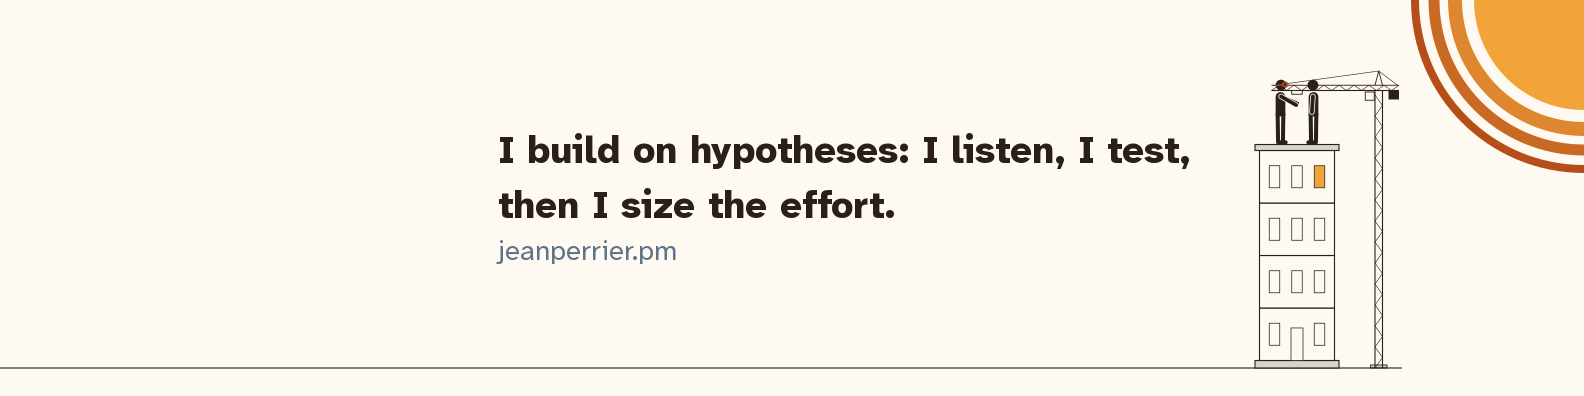
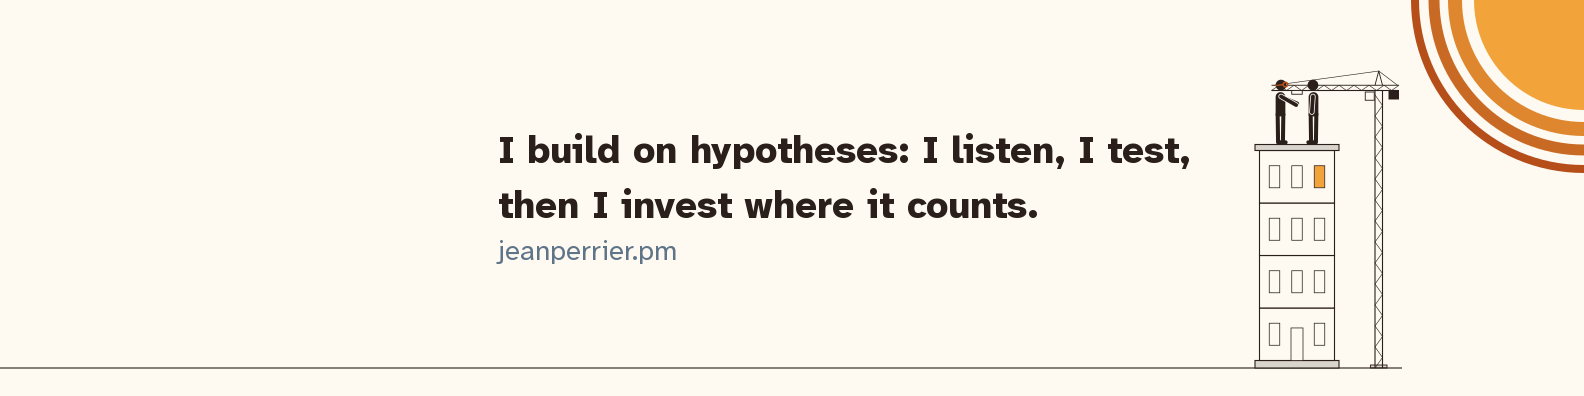
Phrase signature « j'investis la ou ca compte », date sous le titre des projets, releve des lourdeurs

Changed region(s): [[0.3712, 0.4848, 0.6496, 0.5758]]

diff --git a/src/content.config.ts b/src/content.config.ts
@@ -18,6 +18,8 @@ const projets = defineCollection({
   schema: z
     .object({
       titre: phrase,
+      /** Le mois du projet, AAAA-MM, affiché sous le titre (registre/0045). */
+      date: z.string().regex(/^\d{4}-(0[1-9]|1[0-2])$/, 'date attendue au format AAAA-MM'),
       /** Le fait clé, affiché en grand sous le titre. */
       fait: phrase,
       /** La synthèse recruteur : trois phrases. */

diff --git a/redaction/releve-lourdeurs.md b/redaction/releve-lourdeurs.md
@@ -1,0 +1,99 @@
+# Relevé des lourdeurs (registre/0044)
+
+Lecture seule, texte relevé sur le site construit (`.dist-releve`, supprimé
+depuis). Rien n'est appliqué : chaque ligne attend le go de Jean.
+
+## Les trois changements qui comptent le plus
+
+1. Les synthèses répètent le fait affiché en grand juste au-dessus (UserVoice n°3, Audit contenu n°10) : la phrase « résultat » doit dire autre chose.
+2. La synthèse « action » de UserVoice fait 38 mots et empile deux relatives, alors que c'est la phrase la plus lue du site (n°2) : trois phrases courtes.
+3. Audit contenu dit deux fois la grille (corps puis « Pour aller plus loin ») et quatre fois la relecture dans « Corriger sans casser » (n°11, n°12) : le corps résume, l'annexe détaille.
+
+## « porte sur le contenu » : 6 occurrences
+
+Dans les sources du site : `src/contenu/projets.ts:31` (accueil),
+`src/contenu/projets/fr/uservoice.md:3` (fait en tête), `:7` (synthèse),
+`:40` (corps), `src/contenu/projets/fr/audit-contenu.md:35` (corps),
+`src/pages/projets/uservoice.astro:9` (description, émise deux fois dans le
+HTML : `description` et `og:description`). Le recruteur en voit 5 dans les
+pages, plus l'aperçu de partage. Hors site, `redaction/` en garde 4
+(`uservoice.fr.md:3`, `:4`, `:25`, `audit-contenu.fr.md:9`). L'anglais
+garde « is about » (registre/0044).
+
+## FR
+
+### Accueil
+
+| # | Extrait | Ce qui pèse | Réécriture proposée | Fichier:ligne |
+|---|---|---|---|---|
+| 1 | « 1 retour sur 3 porte sur le contenu. » | Verbe mou (relevé de Jean) | « 1 retour sur 3 concerne le contenu. » | `src/contenu/projets.ts:31` |
+
+### UserVoice
+
+| # | Extrait | Ce qui pèse | Réécriture proposée | Fichier:ligne |
+|---|---|---|---|---|
+| 2 | « Je les ai réunis dans une seule table, où l'IA classe […] et laisse les cas douteux à une validation humaine, pour un bilan qui se lit en cinq minutes chaque lundi. » | 38 mots, deux relatives empilées, en tête de page | « Je les ai réunis dans une seule table. L'IA classe chaque retour avec un score de confiance et laisse les cas douteux à un humain. Le bilan se lit en cinq minutes, chaque lundi. » | `src/contenu/projets/fr/uservoice.md:6` |
+| 3 | « On pensait surtout à des bugs ; la donnée a montré qu'un retour sur trois porte sur le contenu, et l'effort s'est déplacé vers sa qualité. » | Redit le fait affiché trois lignes plus haut ; 27 mots | « On pensait surtout à des bugs. La donnée a désigné le contenu, et l'effort s'est déplacé vers sa qualité. » (à défaut : « concerne le contenu ») | `src/contenu/projets/fr/uservoice.md:7` |
+| 4 | « 1 retour sur 3 porte sur le contenu. » (fait en tête et description de la page) | Verbe mou | « 1 retour sur 3 concerne le contenu. » | `src/contenu/projets/fr/uservoice.md:3`, `src/pages/projets/uservoice.astro:9` |
+| 5 | « Un retour sur trois laissé dans le formulaire présent sur toutes les pages porte sur le contenu (de mars à septembre 2026). » | Sujet séparé du verbe par deux compléments, date en parenthèse finale | « De mars à septembre 2026, un retour sur trois laissé dans le formulaire du site concerne le contenu. » | `src/contenu/projets/fr/uservoice.md:40` |
+| 6 | « Une plateforme EdTech reçoit des milliers de retours d'apprenants par an. Ils arrivent par quatre sources : » | Redit mot pour mot la synthèse du haut | « Les retours arrivent par quatre sources : » (la suite inchangée) | `src/contenu/projets/fr/uservoice.md:24` |
+| 7 | « Je les ai fait converger vers une seule table, où chaque retour garde ses dimensions figées au moment où il est donné. Des mois plus tard, on le relit […] » | Verbe mou, terme technique (« dimensions figées »), deux « où » | « Je les ai réunis dans une seule table. Chaque retour y garde le contexte du jour où il a été donné, et se relit ainsi des mois plus tard. » | `src/contenu/projets/fr/uservoice.md:34` |
+| 8 | « L'enquête NPS pointe dans la même direction par un autre chemin. Sur deux mois […] touche à la qualité du contenu (explications, qualité des exercices, traductions), et la moitié […] » | Tournure longue pour « confirme », parenthèse, 35 mots | « L'enquête NPS le confirme. Sur deux mois de l'été 2026, près d'un commentaire sur cinq touche aux explications, aux exercices ou aux traductions. La moitié sont des critiques ou des demandes. » | `src/contenu/projets/fr/uservoice.md:42` |
+| 9 | « Chaque validation enrichit les exemples donnés à l'IA pour les passes suivantes, et des règles mécaniques prennent le relais sur les cas devenus évidents, comme […] » | 31 mots, précision inutile (« pour les passes suivantes ») | « Chaque validation enrichit les exemples donnés à l'IA. Des règles mécaniques prennent le relais sur les cas évidents, comme les réponses vides ou les doublons. » | `src/contenu/projets/fr/uservoice.md:50` |
+
+### Audit contenu
+
+| # | Extrait | Ce qui pèse | Réécriture proposée | Fichier:ligne |
+|---|---|---|---|---|
+| 10 | « Sur ce premier parcours, 1 question sur 20 empêchait l'apprenant de répondre, et toutes ont été corrigées après relecture. » | Redit le fait affiché juste au-dessus | « Les corrections, relues avant d'être appliquées, sont en production depuis la semaine du 28 septembre 2026. » | `src/contenu/projets/fr/audit-contenu.md:7` |
+| 11 | « La grille compte six critères. Deux portent sur la réponse. […] Ils vérifient aussi que ses éléments ne se contredisent pas. » | Sept phrases hachées, que « Pour aller plus loin » redit en entier | « La grille compte six critères. Deux portent sur la réponse : la réponse attendue est la bonne, et aucune autre ne se défend aussi bien. Un troisième vérifie que la question contient une explication, et qu'elle n'est pas circulaire. Les trois derniers portent sur la fidélité à la source, la langue et la cohérence. » | `src/contenu/projets/fr/audit-contenu.md:43-47` |
+| 12 | « Les corrections retenues sortent en lots, prêts à relire, pour la préproduction. […] La décision reste donc humaine. […] Aucune correction ne part en ligne sans avoir été lue. » | La relecture dite quatre fois en six phrases | « L'outil n'écrit jamais directement en base. Il produit des lots de corrections, et une personne relit chacun avant la préproduction. Si un agent se trompe de réponse, le pire est un lot rejeté à la relecture. » | `src/contenu/projets/fr/audit-contenu.md:63-65` |
+| 13 | « Le premier projet de ce portfolio, UserVoice, a rassemblé ce que […] disent d'elle. Dans le formulaire du site, 1 retour sur 3 porte sur le contenu. C'est donc là que leur satisfaction se joue d'abord. » | Le fait vient en deuxième ; la dernière phrase redit la synthèse ; verbe mou | « Dans le formulaire du site, 1 retour sur 3 concerne le contenu : c'est le constat du premier projet, UserVoice. » | `src/contenu/projets/fr/audit-contenu.md:35` |
+| 14 | « Nous avons porté l'effort sur le contenu lui-même, question par question. […] La learning designer a validé la grille. Elle a aussi défini les règles d'écriture des contenus (sauts de ligne, règles éditoriales) et […] » | Ouverture que le titre dit déjà, cinq phrases courtes de même rythme, parenthèse | « J'ai mené ce chantier avec une learning designer. J'ai conçu la grille d'audit et l'outillage qui l'applique ; elle a validé la grille, défini les règles d'écriture des contenus et fait la recette des échantillons. » | `src/contenu/projets/fr/audit-contenu.md:37` |
+| 15 | « Ce sont des sous-agents de Claude Code, sur abonnement, sans appel à une API payante. […] L'un d'eux vérifie par exemple que l'explication parle du même audio que la question. Un bilan donne enfin […] » | Six phrases ; l'exemple de l'audio est redit dans « Pour aller plus loin » | « Des agents IA appliquent la grille, question par question : des sous-agents de Claude Code, sur abonnement, sans API payante. Le modèle ne juge pas seul. Des contrôles automatiques, qui ne dépendent d'aucun modèle, passent sur tout le corpus. Un bilan donne l'état de chaque question et ce qui lui est reproché. » | `src/contenu/projets/fr/audit-contenu.md:51` |
+| 16 | « De ce projet, j'ai tiré 25 règles pour mener un projet avec l'IA. Elles servent à garder la main […] Je les ai mesurées sur le projet lui-même […] Elles changent la façon de travailler. » | « projet » trois fois ; phrase générale sans fait | « Ce projet m'a laissé 25 règles pour garder la main sur ce qu'un agent produit. Je les ai mesurées en tokens sur quatre semaines et en points de décision tracés dans un registre. » ; supprimer « Elles changent la façon de travailler. » | `src/contenu/projets/fr/audit-contenu.md:71-73` |
+| 17 | « Certaines règles tiennent en une ligne et ont coûté cher avant d'être écrites. Ouvrir le suivi de version dès le premier fichier en fait partie. » | « en fait partie » : le fait arrive en troisième phrase | « Certaines règles ont coûté cher avant d'être écrites. Sans suivi de version dès le premier fichier, deux semaines de travail sont restées hors historique. » | `src/contenu/projets/fr/audit-contenu.md:77` |
+
+### À propos
+
+| # | Extrait | Ce qui pèse | Réécriture proposée | Fichier:ligne |
+|---|---|---|---|---|
+| 18 | « Je suis Head of Product chez […], une scale-up SaaS B2B […] en ligne, depuis 2024. J'y étais auparavant […] » | La date, que le recruteur cherche, est rejetée après l'apposition | « Depuis 2024, je suis Head of Product chez […], une scale-up SaaS B2B d'apprentissage des langues en ligne. J'y ai été Product Manager et Product Owner Data de 2022 à 2024. » (nom de l'employeur inchangé) | `src/pages/a-propos.astro:18-19` |
+| 19 | « J'y mène une équipe […], de la discovery à la mise en production, et je pilote l'équipe qui transforme […] » | 30 mots, deux rôles dans une phrase | « J'y mène une équipe de Product Managers et de Product Designers, de la discovery à la mise en production. Je pilote aussi l'équipe qui transforme les retours des utilisateurs en corrections priorisées. » | `src/pages/a-propos.astro:22-23` |
+| 20 | « L'IA fait partie de mes outils quand elle apporte quelque chose de concret : » | Tournure longue, « quelque chose de concret » vague | « J'utilise l'IA quand elle sert un besoin précis : classer des retours, auditer un contenu, prototyper une fonctionnalité. » | `src/pages/a-propos.astro:30-31` |
+
+## EN
+
+L'accueil anglais ne change pas (« is about » reste).
+
+### UserVoice
+
+| # | Extrait | Ce qui pèse | Réécriture proposée | Fichier:ligne |
+|---|---|---|---|---|
+| 21 | « I brought them together in a single table, where AI classifies […], for a summary that takes five minutes to read every Monday. » | Voir n°2 | « I brought them together in a single table. AI classifies each piece of feedback with a confidence score and leaves the doubtful cases to a person. The summary takes five minutes to read, every Monday. » | `src/contenu/projets/en/uservoice.md:6` |
+| 22 | « We thought it was mostly bugs; the data showed that one in three pieces of feedback is about the content, and […] » | Voir n°3 | « We thought it was mostly bugs. The data pointed to the content, and the effort moved to its quality. » | `src/contenu/projets/en/uservoice.md:7` |
+| 23 | « One in three pieces of feedback left in the form available on every page is about the content (March to September 2026). » | Voir n°5 | « From March to September 2026, one in three pieces of feedback left in the site's form is about the content. » | `src/contenu/projets/en/uservoice.md:40` |
+| 24 | « An EdTech platform receives thousands of pieces of learner feedback a year. They come from four sources: » | Voir n°6 | « Feedback comes from four sources: » (la suite inchangée) | `src/contenu/projets/en/uservoice.md:24` |
+| 25 | « […] where each piece of feedback keeps its dimensions frozen as they were when it was submitted. Months later, it is read […] » | Voir n°7 | « I brought them into a single table. Each piece of feedback keeps the context of the day it was submitted, so it still reads that way months later. » | `src/contenu/projets/en/uservoice.md:34` |
+
+### Content audit
+
+| # | Extrait | Ce qui pèse | Réécriture proposée | Fichier:ligne |
+|---|---|---|---|---|
+| 26 | « In that first course, 1 question in 20 stopped learners from answering, and all of them were fixed after review. » | Voir n°10 | « The fixes, reviewed before being applied, have been in production since the week of September 28, 2026. » | `src/contenu/projets/en/content-audit.md:7` |
+| 27 | « The grid has six criteria. Two concern the answer. […] They also check that its parts do not contradict each other. » | Voir n°11 | « The grid has six criteria. Two concern the answer: the expected answer is the right one, and no other answer is as defensible. A third checks that the question includes an explanation, and that it is not circular. The last three cover faithfulness to the source, language and internal consistency. » | `src/contenu/projets/en/content-audit.md:43-47` |
+| 28 | « The fixes we keep come out in batches […] So the decision stays with a person. […] No fix goes live without being read. » | Voir n°12 | « The tool never writes directly to the database. It produces batches of fixes, and a person reviews each one before staging. If an agent gets an answer wrong, the worst case is a batch rejected at review. » | `src/contenu/projets/en/content-audit.md:63-65` |
+| 29 | « The first project in this portfolio, UserVoice, gathered […] So that is where their satisfaction is decided first. » | Voir n°13 | « In the site's feedback form, 1 in 3 pieces of feedback is about the content: that is what the first project, UserVoice, found. » | `src/contenu/projets/en/content-audit.md:35` |
+
+### About
+
+| # | Extrait | Ce qui pèse | Réécriture proposée | Fichier:ligne |
+|---|---|---|---|---|
+| 30 | « I have been Head of Product at […], a B2B SaaS scale-up in online language learning, since 2024. I was previously […] » | Voir n°18 | « Since 2024, I have been Head of Product at […], a B2B SaaS scale-up in online language learning. From 2022 to 2024, I was a Product Manager and Data Product Owner there. » | `src/pages/en/about.astro:18-19` |
+
+## Hors relevé, à vérifier
+
+UserVoice dit « Quand j'ai lancé UserVoice, en septembre 2026 » (`uservoice.md:26`)
+mais cite des retours « de mars à septembre 2026 » et l'été 2026 ; Audit
+contenu, qui part de ce constat, dure quatre semaines et passe en production
+la semaine du 28 septembre 2026. La date de lancement est peut-être fausse.

diff --git a/prompts/3-phrase-et-date.md b/prompts/3-phrase-et-date.md
@@ -1,0 +1,57 @@
+# Brief — la phrase signature et la date des projets (registre/0045)
+
+Deux changements validés par Jean, sur le portfolio Astro.
+
+## 1. La phrase signature
+
+Remplace partout, sur le site et dans les images :
+- FR : « Je bâtis sur des hypothèses : j'écoute, je teste, puis je dose
+  l'effort. » → « Je bâtis sur des hypothèses : j'écoute, je teste, puis
+  j'investis là où ça compte. »
+- EN : la phrase qui finit par « then I size the effort. » → « I build on
+  hypotheses: I listen, I test, then I invest where it counts. » (garde le
+  début anglais actuel s'il diffère légèrement, change la fin.)
+
+Où : `grep -rn "dose l'effort\|size the effort" src ops redaction` (hors
+`.canevas/`, `prompts/`, `registre/` : ce sont des archives). Les espaces
+insécables du texte comptent (espace fine avant « : ») : garde celles
+qui sont en place.
+
+Puis régénère les images : `node ops/images/apercu.mjs`. La phrase est plus
+longue : vérifie (outil Read) que l'aperçu `public/og/apercu.png` et les
+quatre bannières `ops/images/couverture/*.png` restent lisibles, sans
+débordement ni coupure, le texte à droite de la zone de la photo de profil
+(x ≥ 500) et dans la bande sûre des bannières ; le script imprime ces
+mesures. Si la phrase ne tient pas sur deux lignes à 38 px dans la bannière,
+passe à trois lignes plutôt que de réduire sous 34 px. Attention au piège
+consigné dans le script : la graisse 800 dépend de l'ordre de rendu.
+
+## 2. La date sous le titre
+
+- `src/content.config.ts` : un champ obligatoire `date`, au format `AAAA-MM`
+  (validé par une regex), dans l'en-tête des quatre fichiers
+  `src/contenu/projets/{fr,en}/*.md` : `2026-09` pour les deux projets.
+- `src/layouts/Projet.astro` : juste sous le `<h1>`, un
+  `<p class="synthese__date"><time datetime="2026-09">septembre 2026</time></p>`
+  (EN « September 2026 »), mois formaté par `Intl.DateTimeFormat` selon la
+  langue, première lettre en capitale en FR (« Septembre 2026 »). Style :
+  texte courant en `--ardoise`, taille ≥ 18 px et graisse 700 (l'ardoise ne
+  passe le contraste qu'en grand texte, test `contrastes`), petit écart sous
+  le titre, avant le fait clé.
+
+## Ce que tu ne touches pas
+
+Les tests, les autres textes, `src/components/schemas/`, `public/captures/`
+(un autre chantier y travaille), `redaction/releve-lourdeurs.md`,
+`src/i18n/publication.ts`.
+
+## La preuve attendue
+
+`npx astro build --force --outDir .dist-0045` puis `DIST=.dist-0045 npm test`
+(`fail 0`) ; grep : l'ancienne phrase n'est plus dans aucune page construite,
+la nouvelle est sur les pages attendues, `<time datetime="2026-09">` sur les
+quatre pages projet. Sortie du script d'images, et ce que tu as vu sur les
+images. Supprime `.dist-0045`. Ne commite rien, n'ouvre aucun navigateur.
+
+Environnement : Windows, Git Bash, Node par
+`export PATH="$APPDATA/fnm/node-versions/v24.20.0/installation:$PATH"`.

diff --git a/prompts/3-allegement-textes.md b/prompts/3-allegement-textes.md
@@ -1,0 +1,34 @@
+# Brief — appliquer le relevé des lourdeurs (registre/0046)
+
+Jean a validé **les 30 propositions** de `redaction/releve-lourdeurs.md`
+(le seul fichier à lire, avec les sources qu'il cite). Applique-les telles
+qu'écrites, aux fichier:ligne indiqués (les numéros de ligne ont pu bouger :
+retrouve l'extrait). Points précis :
+
+- n°17 est exacte : « Sans suivi de version dès le premier fichier, deux
+  semaines de travail sont restées hors historique. » entre telle quelle.
+- n°18 et n°30 : le relevé écrit « […] » à la place du nom de l'employeur ;
+  **garde le nom en place** dans `a-propos.astro` et `en/about.astro`, ne
+  l'écris nulle part ailleurs.
+- « porte sur le contenu » devient « concerne le contenu » aux 6 endroits
+  listés ; l'anglais garde « is about ».
+- Garde les espaces insécables en place (avant « : », « ; », « ? »).
+- Ne touche pas à la phrase signature ni à la date sous le titre (registre
+  0045, déjà fait).
+- Reporte les mêmes changements dans `redaction/uservoice.fr.md`,
+  `redaction/audit-contenu.fr.md` et `redaction/a-propos.fr.md` (la partie
+  au-dessus du filet), qui restent la référence du texte.
+- Les H2 ne changent pas (le bâtiment en fait ses étages).
+
+Ne touche ni aux tests, ni à `src/components/`, ni à `public/captures/`
+(un autre chantier), ni à `src/i18n/publication.ts`.
+
+## La preuve attendue
+
+`npx astro build --force --outDir .dist-0046` puis `DIST=.dist-0046 npm test`
+(`fail 0`) ; `grep -c "porte sur le contenu"` à 0 dans les pages construites ;
+pour chaque numéro du relevé, « appliqué » ou la raison de l'écart. Supprime
+`.dist-0046`. Ne commite rien, n'ouvre aucun navigateur.
+
+Environnement : Windows, Git Bash, Node par
+`export PATH="$APPDATA/fnm/node-versions/v24.20.0/installation:$PATH"`.

diff --git a/registre/0045-phrase-signature-et-date.md b/registre/0045-phrase-signature-et-date.md
@@ -1,0 +1,23 @@
+# 0045 — La phrase signature réécrite, la date sous le titre des projets
+
+| nature | etape | cout_estime | cout_reel | modele |
+|---|---|---|---|---|
+| `chantier` | `contenu` | 50 | 99 | `claude-opus-5-5` |
+
+**Décisions de Jean (2026-09-29)** :
+1. « … puis je dose l'effort » sonnait dilettante. La phrase devient
+   « Je bâtis sur des hypothèses : j'écoute, je teste, puis j'investis là où
+   ça compte. » ; EN « I build on hypotheses: I listen, I test, then I invest
+   where it counts. » Partout : accueil, À propos, `<head>`, aperçu LinkedIn,
+   bannières.
+2. Une date en mois et année sous le titre de chaque page projet, portée par
+   le gabarit : septembre 2026 pour les deux projets.
+3. Le schéma 0041 est validé tel quel, libellés compris.
+
+Brief : `prompts/3-phrase-et-date.md`.
+
+**Clôture** : phrase remplacée sur 8 pages, dans l'`og:image:alt` et les
+images ; bannière FR sur trois lignes coupées à la main (« compte. » restait
+seul), EN sur deux ; aperçu en cinq lignes, serré mais lisible. Champ `date`
+(`AAAA-MM`) obligatoire, affiché en ardoise 19 px gras sous le `<h1>`.
+Ratio 2,0 : la longueur de la nouvelle phrase a coûté une passe d'images.

diff --git a/registre/0046-allegement-textes.md b/registre/0046-allegement-textes.md
@@ -1,0 +1,13 @@
+# 0046 — L'allègement des textes, d'après le relevé 0044
+
+| nature | etape | cout_estime | cout_reel | modele |
+|---|---|---|---|---|
+| `chantier` | `contenu` | 70 | — | — |
+
+**Décision de Jean (2026-09-29)** : les 30 propositions de
+`redaction/releve-lourdeurs.md` s'appliquent. La n°17 est exacte (deux
+semaines sans suivi de version), elle entre telle quelle. UserVoice reste
+« lancé en septembre 2026 » : le formulaire recueille des retours depuis
+mars, et UserVoice a repris cet historique. Les textes de `redaction/`
+suivent le site, pour rester la référence.
+Brief : `prompts/3-allegement-textes.md`.

diff --git a/redaction/a-propos.fr.md b/redaction/a-propos.fr.md
@@ -14,7 +14,7 @@ Avant, j'ai construit des services publics numériques : à la DINUM,
 l'Observatoire de la qualité des démarches en ligne et « Je donne mon
 avis », puis à la DITP, Services publics +.
 
-Je bâtis sur des hypothèses : j'écoute, je teste, puis je dose l'effort.
+Je bâtis sur des hypothèses : j'écoute, je teste, puis j'investis là où ça compte.
 L'IA fait partie de mes outils quand elle apporte quelque chose de concret :
 classer des retours, auditer un contenu, prototyper une fonctionnalité.
 

diff --git a/src/contenu/projets/fr/audit-contenu.md b/src/contenu/projets/fr/audit-contenu.md
@@ -1,5 +1,6 @@
 ---
 titre: "Audit contenu : vérifier chaque question avant l'apprenant"
+date: "2026-09"
 fait: "Sur le premier parcours audité, 1 question sur 20 empêchait l'apprenant de répondre. Toutes ont été corrigées."
 synthese:
   probleme: "D'après leurs retours, la satisfaction des apprenants d'une plateforme EdTech se joue d'abord sur la qualité du contenu."

diff --git a/src/contenu/projets/en/content-audit.md b/src/contenu/projets/en/content-audit.md
@@ -1,5 +1,6 @@
 ---
 titre: "Content audit: checking every question before learners see it"
+date: "2026-09"
 fait: "In the first course audited, 1 question in 20 stopped learners from answering. All of them were fixed."
 synthese:
   probleme: "According to their feedback, the satisfaction of learners on an EdTech platform depends first on the quality of the content."

diff --git a/src/contenu/projets/fr/uservoice.md b/src/contenu/projets/fr/uservoice.md
@@ -1,5 +1,6 @@
 ---
 titre: "UserVoice : écouter les apprenants chaque lundi"
+date: "2026-09"
 fait: "1 retour sur 3 porte sur le contenu."
 synthese:
   probleme: "Une plateforme EdTech reçoit des milliers de retours d'apprenants par an, répartis entre quatre sources et qualifiés à la main avec des semaines de retard."

diff --git a/src/contenu/projets/en/uservoice.md b/src/contenu/projets/en/uservoice.md
@@ -1,5 +1,6 @@
 ---
 titre: "UserVoice: listening to learners every Monday"
+date: "2026-09"
 fait: "1 in 3 pieces of feedback is about the content."
 synthese:
   probleme: "An EdTech platform receives thousands of pieces of learner feedback a year, spread across four sources and tagged by hand weeks after the fact."
